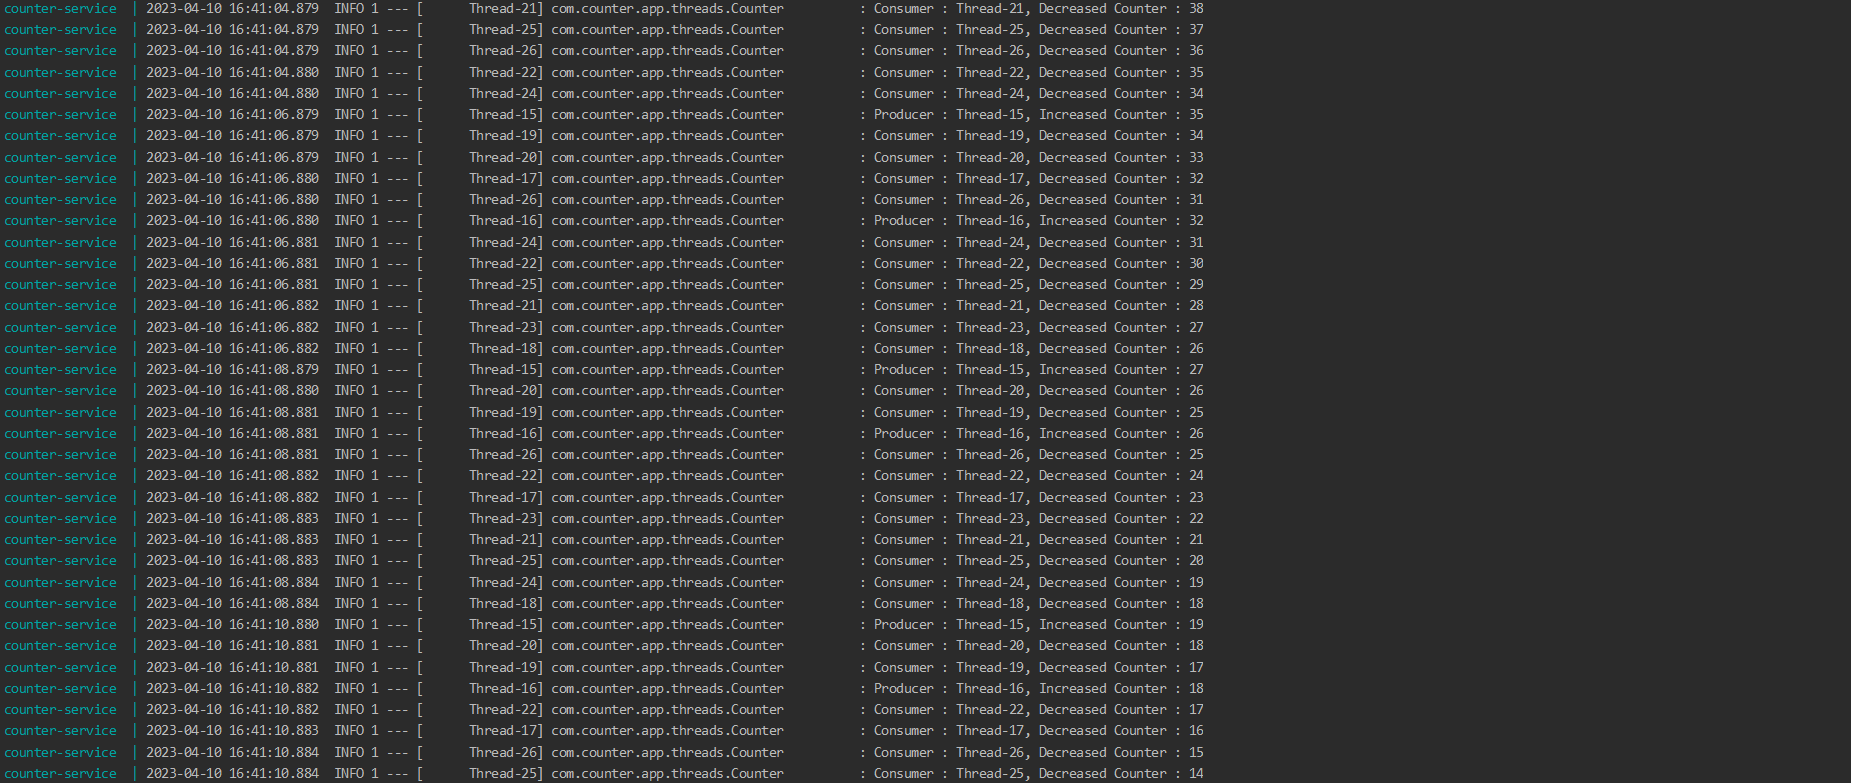
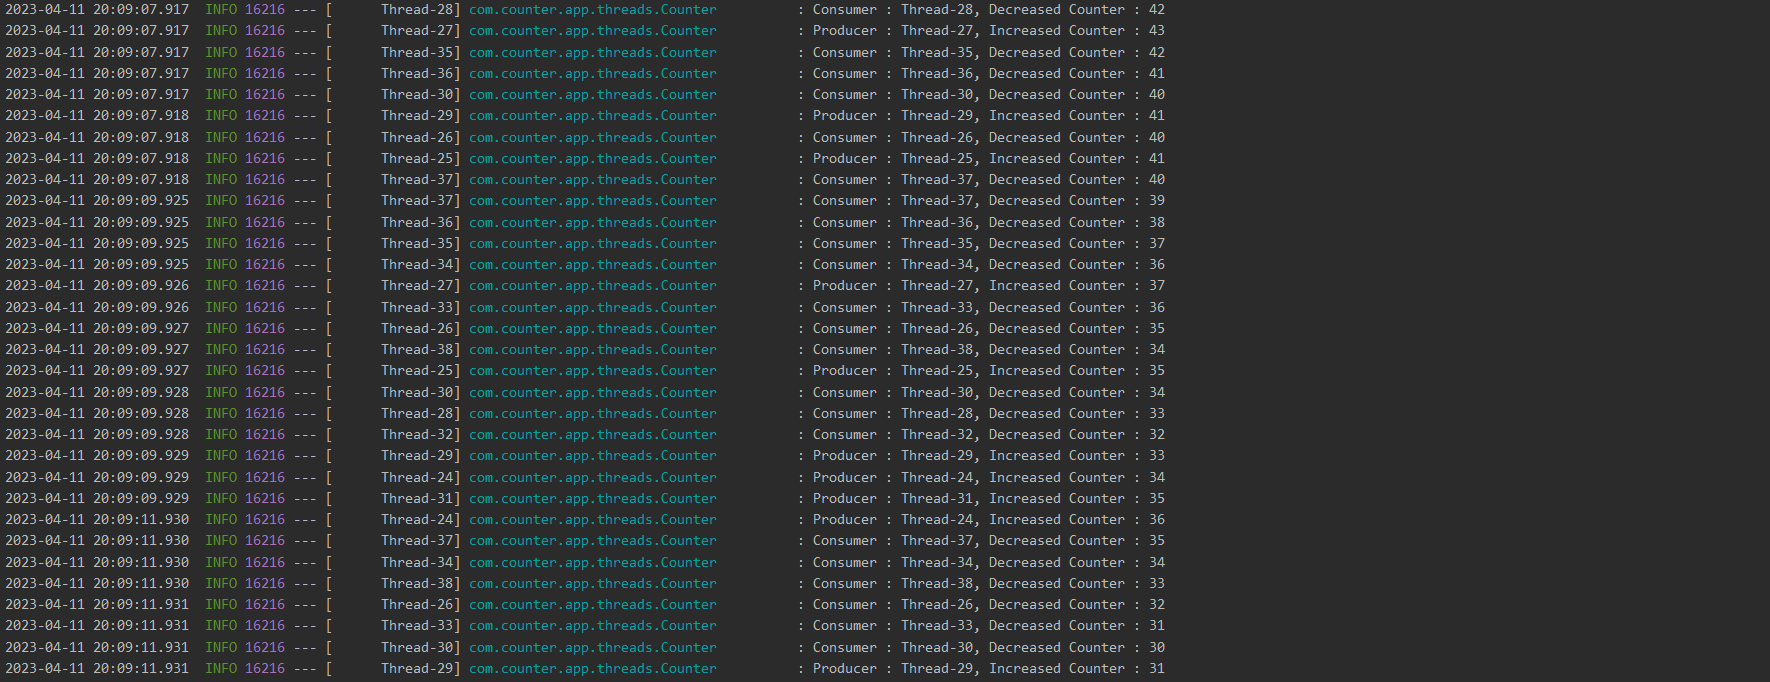
Thread created asynchronously and comments added

Changed region(s): [[0.0, 0.0, 0.435, 1.0], [0.4661, 0.0, 0.6525, 1.0]]

diff --git a/src/main/java/com/counter/app/service/impl/AppServiceImpl.java b/src/main/java/com/counter/app/service/impl/AppServiceImpl.java
@@ -5,6 +5,7 @@ import com.counter.app.exceptions.RequestValidationException;
 import com.counter.app.models.pojo.Request;
 import com.counter.app.models.response.Response;
 import com.counter.app.service.AppService;
+import com.counter.app.service.ThreadInitializerService;
 import com.counter.app.threads.Consumer;
 import com.counter.app.threads.Counter;
 import com.counter.app.threads.Producer;
@@ -29,6 +30,7 @@ public final class AppServiceImpl implements AppService {
     private final RequestDataService requestDataService;
     private final Counter counter;
     private final ObjectMapper mapper;
+    private final ThreadInitializerService threadInitializerService;
 
     @Override
     public ResponseEntity<Response> process(Request request) {
@@ -52,6 +54,7 @@ public final class AppServiceImpl implements AppService {
         return ResponseBuilderFactory.buildResetApiSuccessResponse(value);
     }
 
+    // Logging incoming requests in DB
     private void logRequest(Request request) {
         try {
             String jsonRequest = mapper.writeValueAsString(request);
@@ -62,6 +65,7 @@ public final class AppServiceImpl implements AppService {
         }
     }
 
+    // Validating request for non negative values
     private void validateRequest(Request request) {
         if (request.getProducers() < 0
                 || request.getConsumers() < 0) {
@@ -70,13 +74,7 @@ public final class AppServiceImpl implements AppService {
     }
 
     private void createThreads(Integer producers, Integer consumers) {
-        List<Thread> threads = new ArrayList<>();
-        for (int i = 0; i < producers; i++) {
-            threads.add(new Producer(counter));
-        }
-        for (int i = 0; i < consumers; i++) {
-            threads.add(new Consumer(counter));
-        }
-        threads.forEach(Thread::start);
+        threadInitializerService.initializeProducers(producers, counter);
+        threadInitializerService.initializeConsumer(consumers, counter);
     }
 }

diff --git a/src/main/java/com/counter/app/threads/Counter.java b/src/main/java/com/counter/app/threads/Counter.java
@@ -12,27 +12,37 @@ import java.util.concurrent.atomic.AtomicInteger;
 @Component
 @RequiredArgsConstructor
 public class Counter {
+
+    // Using AtomicInteger instead of integer as it is thread safe
     private final AtomicInteger counter = new AtomicInteger(50);
     private final ThreadTimestampDataService threadTimestampDataService;
 
+    // Increasing the counter value
     public synchronized void increment() {
+
+        // Returning from thread once limit is reached
         if (hasReachedLimit()) {
             return;
         }
         int incrementedValue = counter.incrementAndGet();
 
+        // Logging timestamp in DB when counter reaches 100
         if (incrementedValue == 100) {
             logThreadCounterData(incrementedValue, ThreadType.PRODUCER.getType());
         }
         log.info("Producer : {}, Increased Counter : {}", Thread.currentThread().getName(), incrementedValue);
     }
 
+    // Decreasing the counter value
     public synchronized void decrement() {
+
+        // Returning from thread once limit is reached
         if (hasReachedLimit()) {
             return;
         }
         int decrementedValue = counter.decrementAndGet();
 
+        // Logging timestamp in DB when counter reaches 0
         if (decrementedValue == 0) {
             logThreadCounterData(decrementedValue, ThreadType.CONSUMER.getType());
         }

diff --git a/src/main/java/com/counter/app/service/ThreadInitializerService.java b/src/main/java/com/counter/app/service/ThreadInitializerService.java
@@ -1,0 +1,27 @@
+package com.counter.app.service;
+
+import com.counter.app.threads.Consumer;
+import com.counter.app.threads.Counter;
+import com.counter.app.threads.Producer;
+import org.springframework.scheduling.annotation.Async;
+import org.springframework.stereotype.Component;
+
+@Component
+public class ThreadInitializerService {
+
+    // Creating Producer threads asynchronously
+    @Async
+    public void initializeProducers(Integer producers, Counter counter) {
+        for (int i = 0; i < producers; i++) {
+            new Producer(counter).start();
+        }
+    }
+
+    // Creating Consumer threads asynchronously
+    @Async
+    public void initializeConsumer(Integer consumers, Counter counter) {
+        for (int i = 0; i < consumers; i++) {
+            new Consumer(counter).start();
+        }
+    }
+}

diff --git a/src/main/java/com/counter/app/controllers/AppController.java b/src/main/java/com/counter/app/controllers/AppController.java
@@ -20,12 +20,14 @@ public class AppController {
 
     private final AppService appService;
 
+    // Endpoint to create consumer and producer threads
     @PostMapping(value = "/create")
     public ResponseEntity<Response> create(@RequestBody Request request) {
         log.info("Create Request Received : {}", request.toString());
         return appService.process(request);
     }
 
+    // Endpoint to reset the counter value
     @PostMapping(value = "/reset")
     public ResponseEntity<Response> reset(@RequestParam("counter") Integer counter) {
         log.info("Reset Request Received. Counter : {}", counter);

diff --git a/src/main/java/com/counter/app/Application.java b/src/main/java/com/counter/app/Application.java
@@ -4,7 +4,9 @@ import java.util.TimeZone;
 import javax.annotation.PostConstruct;
 import org.springframework.boot.SpringApplication;
 import org.springframework.boot.autoconfigure.SpringBootApplication;
+import org.springframework.scheduling.annotation.EnableAsync;
 
+@EnableAsync
 @SpringBootApplication
 public class Application {
 
